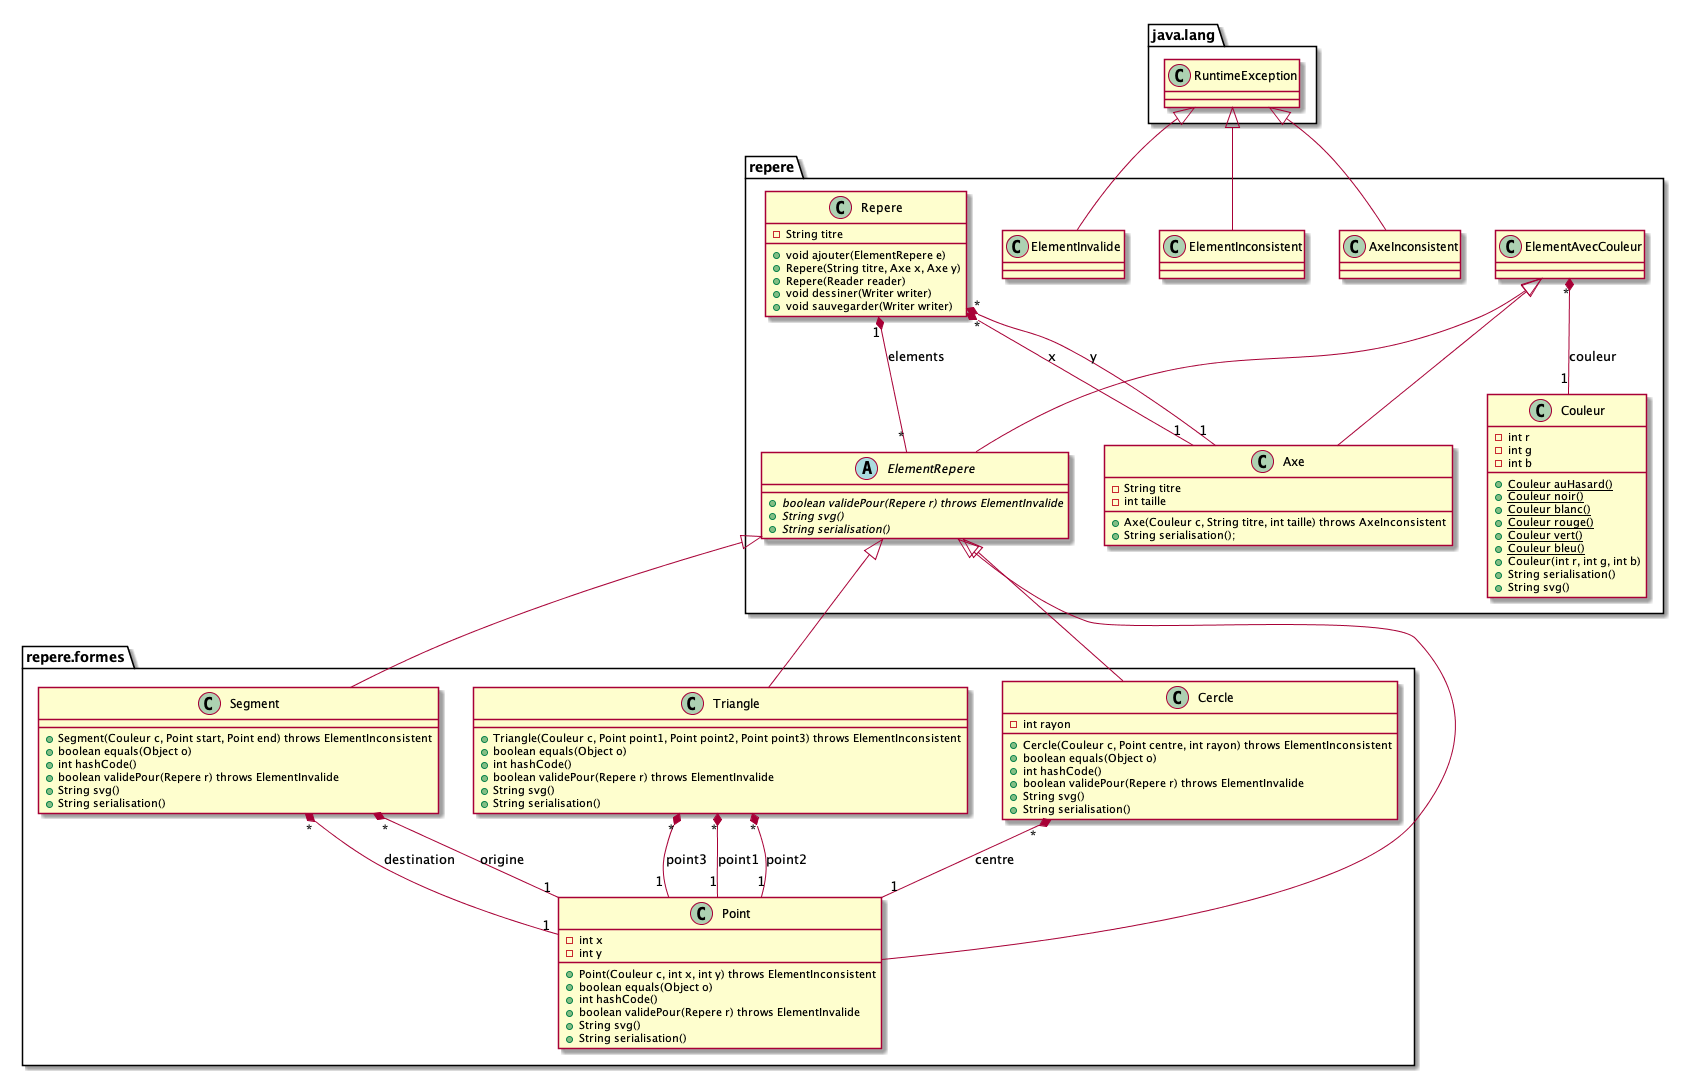
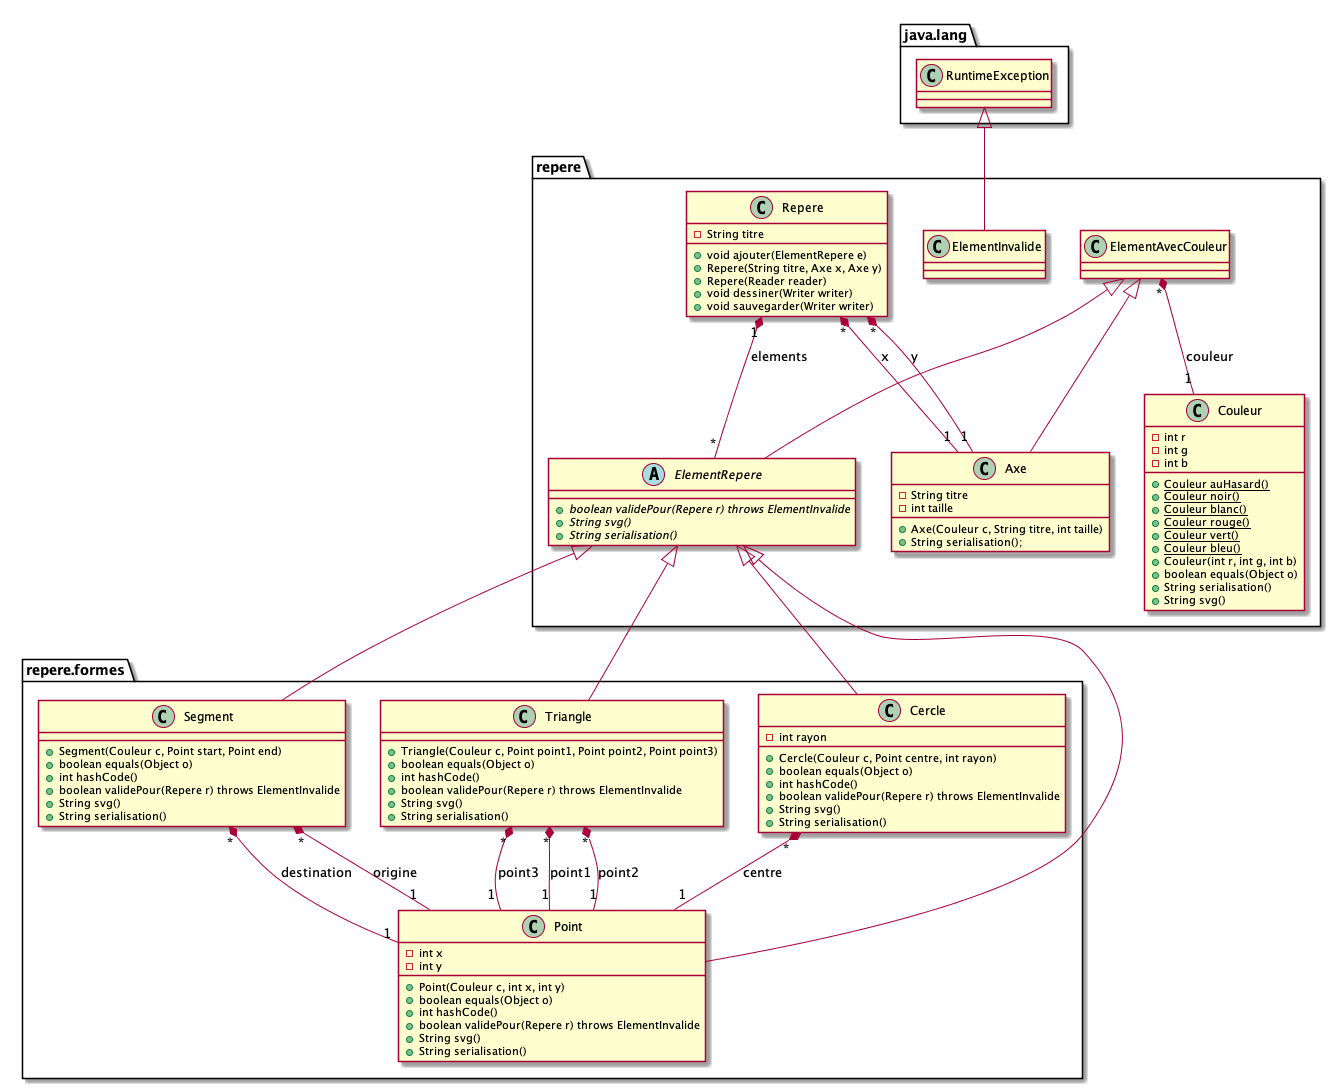
update tp2 to illegalargumentexception.

diff --git a/tp2/src/test/java/repere/TestTriangle.java b/tp2/src/test/java/repere/TestTriangle.java
@@ -8,31 +8,31 @@ import repere.formes.Point;
 import repere.formes.Triangle;
 
 public class TestTriangle {
-	@Test(expected=ElementInconsistent.class)
+	@Test(expected=IllegalArgumentException.class)
 	public void testTriangleInconsistent1() {
 		new Triangle(Couleur.noir(), new Point(Couleur.noir(), 1 , 1), 
 				new Point(Couleur.noir(), 1, 1), new Point(Couleur.noir(), 2, 2));
 	}
 	
-	@Test(expected=ElementInconsistent.class)
+	@Test(expected=IllegalArgumentException.class)
 	public void testTriangleInconsistent2() {
 		new Triangle(Couleur.noir(), new Point(Couleur.noir(), 1 , 1), 
 				new Point(Couleur.noir(), 2, 2), new Point(Couleur.noir(), 2, 2));
 	}
 	
-	@Test(expected=ElementInconsistent.class)
+	@Test(expected=IllegalArgumentException.class)
 	public void testTriangleInconsistent3() {
 		new Triangle(Couleur.noir(), new Point(Couleur.noir(), 1 , 1), 
 				new Point(Couleur.noir(), 2, 2), new Point(Couleur.noir(), 1, 1));
 	}
 	
-	@Test(expected=ElementInconsistent.class)
+	@Test(expected=IllegalArgumentException.class)
 	public void testTriangleInconsistent4() {
 		new Triangle(Couleur.noir(), new Point(Couleur.noir(), 1 , 1), 
 				new Point(Couleur.noir(), 2, 2), new Point(Couleur.noir(), 3, 3));
 	}
 	
-	@Test(expected=ElementInconsistent.class)
+	@Test(expected=IllegalArgumentException.class)
 	public void testTriangleInconsistent5() {
 		new Triangle(Couleur.noir(), new Point(Couleur.noir(), 2 , 2), 
 				new Point(Couleur.noir(), 4, 4), new Point(Couleur.noir(), 1, 1));

diff --git a/tp2/src/test/java/repere/TestCercle.java b/tp2/src/test/java/repere/TestCercle.java
@@ -8,22 +8,22 @@ import repere.formes.Cercle;
 import repere.formes.Point;
 
 public class TestCercle {
-	@Test(expected=ElementInconsistent.class)
+	@Test(expected=IllegalArgumentException.class)
 	public void testCercleInconsistent1() {
 		new Cercle(Couleur.noir(), new Point(Couleur.noir(), 2, 2), -10);
 	}
 	
-	@Test(expected=ElementInconsistent.class)
+	@Test(expected=IllegalArgumentException.class)
 	public void testCercleInconsistent2() {
 		new Cercle(Couleur.noir(), new Point(Couleur.noir(), 2, 2), 0);
 	}
 	
-	@Test(expected=ElementInconsistent.class)
+	@Test(expected=IllegalArgumentException.class)
 	public void testCercleInconsistent3() {
 		new Cercle(Couleur.noir(), new Point(Couleur.noir(), 2, 3), 3);
 	}
 	
-	@Test(expected=ElementInconsistent.class)
+	@Test(expected=IllegalArgumentException.class)
 	public void testCercleInconsistent4() {
 		new Cercle(Couleur.noir(), new Point(Couleur.noir(), 3, 2), 3);
 	}

diff --git a/tp2/src/main/java/repere/formes/Triangle.java b/tp2/src/main/java/repere/formes/Triangle.java
@@ -4,7 +4,6 @@ import java.util.HashSet;
 import java.util.Set;
 
 import repere.Couleur;
-import repere.ElementInconsistent;
 import repere.ElementInvalide;
 import repere.ElementRepere;
 import repere.Repere;
@@ -15,10 +14,10 @@ public class Triangle extends ElementRepere {
 	private Point p2;
 	private Point p3;
 		
-	public Triangle(Couleur couleur, Point p1,  Point p2,  Point p3) throws ElementInconsistent {
+	public Triangle(Couleur couleur, Point p1,  Point p2,  Point p3) {
 		super(couleur);
 		if ((p1.equals(p2) || p1.equals(p3) || p2.equals(p3)) || aligned(p1, p2, p3))
-			throw new ElementInconsistent();
+			throw new IllegalArgumentException("Les trois points d'un triangle doivent être distincts et non alignés.");
 		else {
 			this.p1 = p1;
 			this.p2 = p2;

diff --git a/tp2/src/main/java/repere/formes/Segment.java b/tp2/src/main/java/repere/formes/Segment.java
@@ -4,7 +4,6 @@ import java.util.HashSet;
 import java.util.Set;
 
 import repere.Couleur;
-import repere.ElementInconsistent;
 import repere.ElementInvalide;
 import repere.ElementRepere;
 import repere.Repere;
@@ -15,10 +14,10 @@ public class Segment extends ElementRepere {
 
 	private Point destination;
 
-	public Segment(Couleur couleur, Point origine, Point destination) throws ElementInconsistent {
+	public Segment(Couleur couleur, Point origine, Point destination) {
 		super(couleur);
 		if (origine.equals(destination))
-			throw new ElementInconsistent();
+			throw new IllegalArgumentException("Les deux points d'un segment doivent être distincts.");
 		else {
 			this.origine = origine;
 			this.destination = destination;

diff --git a/tp2/src/main/java/repere/formes/Cercle.java b/tp2/src/main/java/repere/formes/Cercle.java
@@ -1,7 +1,6 @@
 package repere.formes;
 
 import repere.Couleur;
-import repere.ElementInconsistent;
 import repere.ElementInvalide;
 import repere.ElementRepere;
 import repere.Repere;
@@ -11,10 +10,10 @@ public class Cercle extends ElementRepere {
 	private Point centre;
 	private int rayon;
 		
-	public Cercle(Couleur couleur, Point centre, int rayon) throws ElementInconsistent {
+	public Cercle(Couleur couleur, Point centre, int rayon) {
 		super(couleur);
 		if (rayon <= 0)
-			throw new ElementInconsistent();
+			throw new IllegalArgumentException("Le rayon d'un cercle doit être supérieur à 0.");
 		else {
 			new Point(couleur, centre.getX() - rayon, centre.getY() - rayon);
 			this.centre = centre;

diff --git a/tp2/src/main/java/repere/formes/Point.java b/tp2/src/main/java/repere/formes/Point.java
@@ -1,7 +1,6 @@
 package repere.formes;
 
 import repere.Couleur;
-import repere.ElementInconsistent;
 import repere.ElementInvalide;
 import repere.ElementRepere;
 import repere.Repere;
@@ -12,10 +11,10 @@ public class Point extends ElementRepere {
 	
 	private int y;
 	
-	public Point(Couleur couleur, int x, int y) throws ElementInconsistent{
+	public Point(Couleur couleur, int x, int y) {
 		super(couleur);
 		if (x < 0 || y < 0)
-			throw new ElementInconsistent();
+			throw new IllegalArgumentException("Les coordonnées d'un point doivent être supérieures à 0.");
 		else {
 			this.x = x;
 			this.y = y;

diff --git a/tp2/src/main/java/repere/Axe.java b/tp2/src/main/java/repere/Axe.java
@@ -4,11 +4,11 @@ public class Axe extends ElementAvecCouleur {
 	private String titre;
 	private int taille;
 
-	public Axe(Couleur couleur, String titre, int taille) throws AxeInconsistent {
+	public Axe(Couleur couleur, String titre, int taille) {
 		super(couleur);
 		this.titre = titre;
 		if (taille < 1)
-			throw new AxeInconsistent();
+			throw new IllegalArgumentException("Une taille d'axe doit être supérieure à 0.");
 		else
 			this.taille = taille;
 	}

diff --git a/tp2/src/test/java/repere/TestPoint.java b/tp2/src/test/java/repere/TestPoint.java
@@ -6,12 +6,12 @@ import static org.junit.Assert.*;
 import repere.formes.Point;
 
 public class TestPoint {
-	@Test(expected=ElementInconsistent.class)
+	@Test(expected=IllegalArgumentException.class)
 	public void testPointInconsistent1() {
 		new Point(Couleur.noir(), -2, 0);
 	}
 	
-	@Test(expected=ElementInconsistent.class)
+	@Test(expected=IllegalArgumentException.class)
 	public void testPointInconsistent2() {
 		new Point(Couleur.noir(), 0, -1);
 	}

diff --git a/tp2/src/test/java/repere/TestAxe.java b/tp2/src/test/java/repere/TestAxe.java
@@ -4,12 +4,12 @@ import org.junit.Test;
 import static org.junit.Assert.*;
 
 public class TestAxe {
-	@Test(expected=AxeInconsistent.class)
+	@Test(expected=IllegalArgumentException.class)
 	public void testAxeInconsistent1() {
 		new Axe(Couleur.noir(), "", 0);
 	}
 	
-	@Test(expected=AxeInconsistent.class)
+	@Test(expected=IllegalArgumentException.class)
 	public void testAxeInconsistent2() {
 		new Axe(Couleur.noir(), "", -1);
 	}

diff --git a/tp2/src/test/java/repere/TestSegment.java b/tp2/src/test/java/repere/TestSegment.java
@@ -7,7 +7,7 @@ import repere.formes.Point;
 import repere.formes.Segment;
 
 public class TestSegment {
-	@Test(expected=ElementInconsistent.class)
+	@Test(expected=IllegalArgumentException.class)
 	public void testSegmentInconsistent() {
 		new Segment(Couleur.noir(), new Point(Couleur.noir(), 2, 2), new Point(Couleur.noir(), 2, 2));
 	}

diff --git a/tp2/README.md b/tp2/README.md
@@ -13,14 +13,14 @@ La spécification ci-dessous décrit les fonctionnalités du programme à implé
 
 ### Création des éléments du repère (moyen)
 
-Vous devez vérifier que les éléments de repère créés sont consistants. Voici la description des cas d'inconsistances pour les différents éléments:
+Vous devez vérifier que les éléments de repère créés sont conformes. Pour éviter la création d'objets non conformes, vous devez renvoyer un objet d'erreur instance de `IllegalArgumentException` (une erreur qui provient de la librairie standard et qui indique que la valeur d'un paramètre n'est pas correcte).
 
-* Un point est inconsistant si et seulement si au moins une de ses deux coordonées sont négatives.
-* Un segment est inconsistant si et seulement si ses points de départ et d'arrivée sont équivalents.
-* Un cercle est inconsistant si et seulement si son rayon est négatif, nul, ou qu'un des points situés sur le cercle est inconsistant.
-* Un triangle est inconsistant si il existe un couple de point équivalents dans ses points de définition. En outre, il ne faut pas que les trois points soient alignés.
+Voici la description des cas de non conformité pour les différents éléments:
 
-La création d'un élément inconsistant doit lever une exception de type `ElementInconsistent`.
+* Un point est non conforme si et seulement si au moins une de ses deux coordonées sont négatives.
+* Un segment est non conforme si et seulement si ses points de départ et d'arrivée sont équivalents.
+* Un cercle est non conforme si et seulement si son rayon est négatif, nul, ou qu'un des points situés sur le cercle est non conforme.
+* Un triangle est non conforme si il existe un couple de point équivalents dans ses points de définition. En outre, il ne faut pas que les trois points soient alignés.
 
 ### Gestion du repère (moyen)
 
